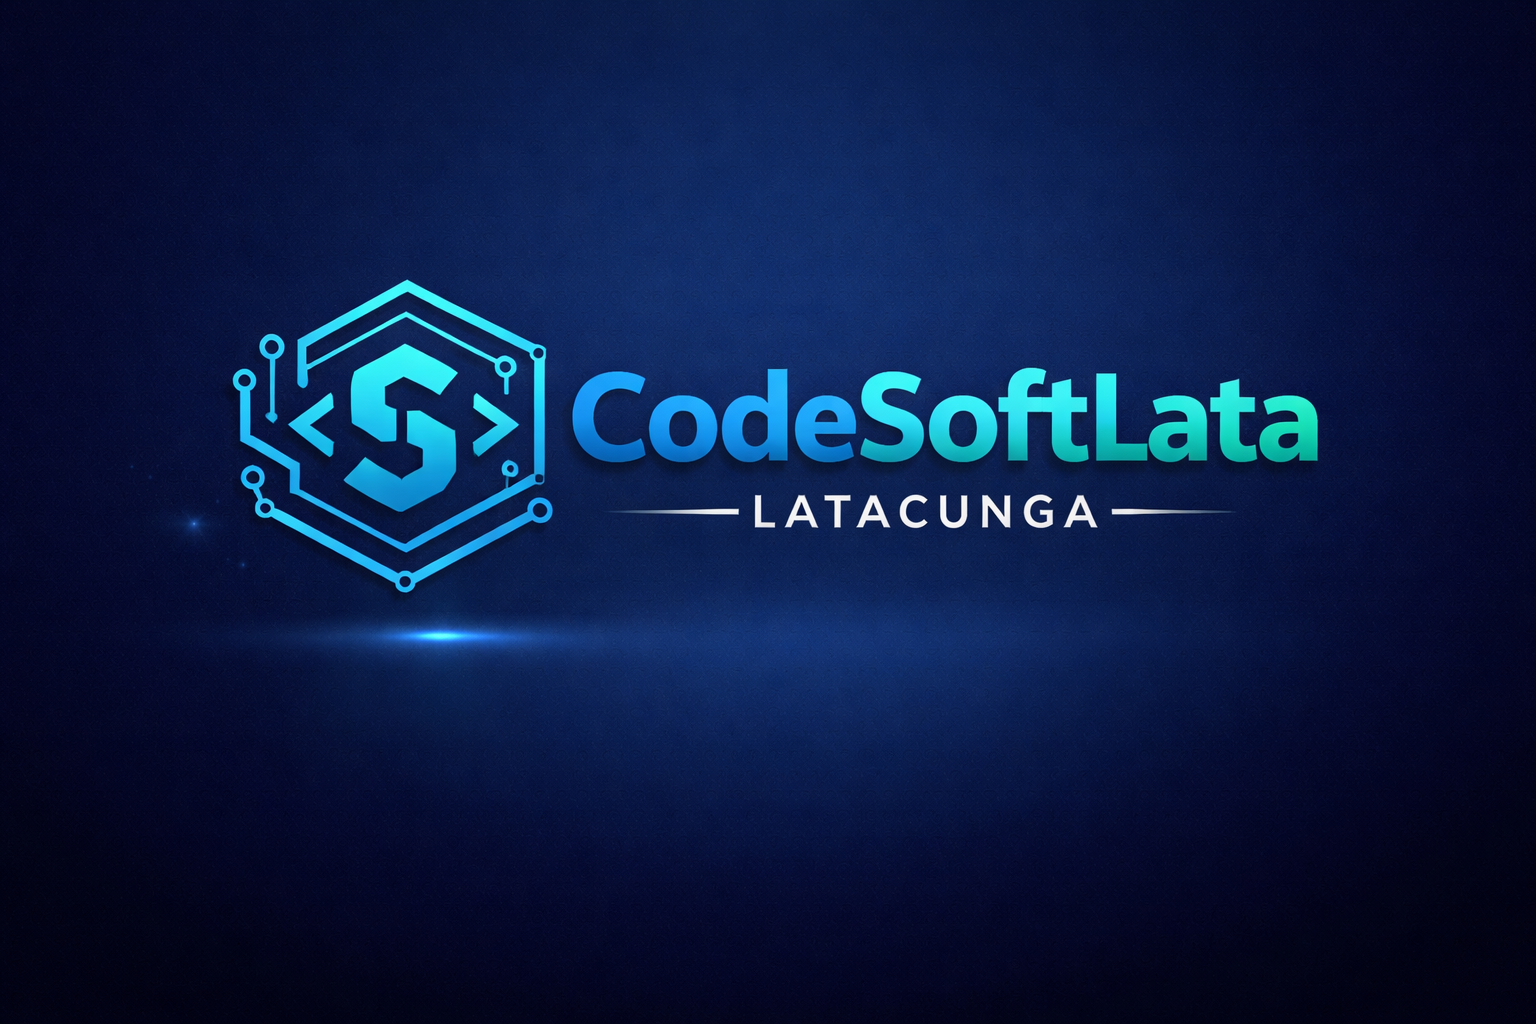
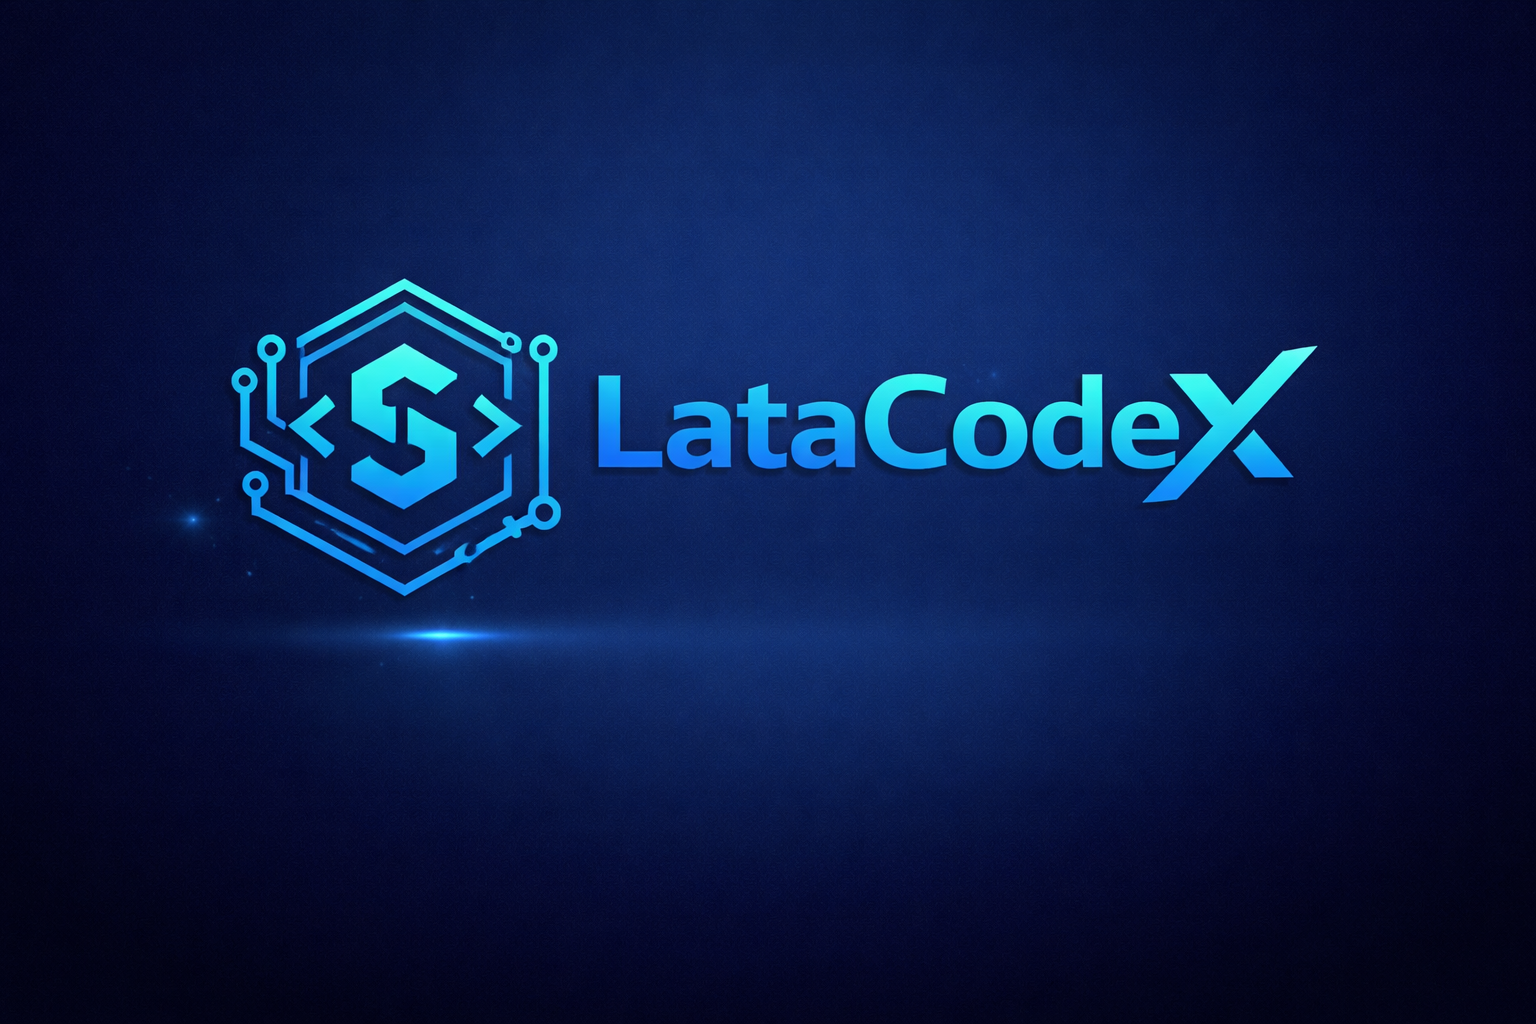
Rename application to LataCodeX

Changed region(s): [[0.1562, 0.2812, 0.875, 0.5938], [0.25, 0.375, 0.2812, 0.4062]]

diff --git a/src/app/app.ts b/src/app/app.ts
@@ -7,7 +7,7 @@ import { Component } from '@angular/core';
   styleUrl: './app.css'
 })
 export class App {
-  protected readonly title = 'Code Soft Lata';
+  protected readonly title = 'LataCodeX';
   protected readonly whatsappNumbers = [
     { phone: '0996866110', link: 'https://wa.me/593996866110' },
     { phone: '0998746535', link: 'https://wa.me/593998746535' }

diff --git a/src/index.html b/src/index.html
@@ -2,7 +2,7 @@
 <html lang="es">
 <head>
   <meta charset="utf-8">
-  <title>CodeSoftLata</title>
+  <title>LataCodeX</title>
   <base href="/">
   <meta name="viewport" content="width=device-width, initial-scale=1">
   
